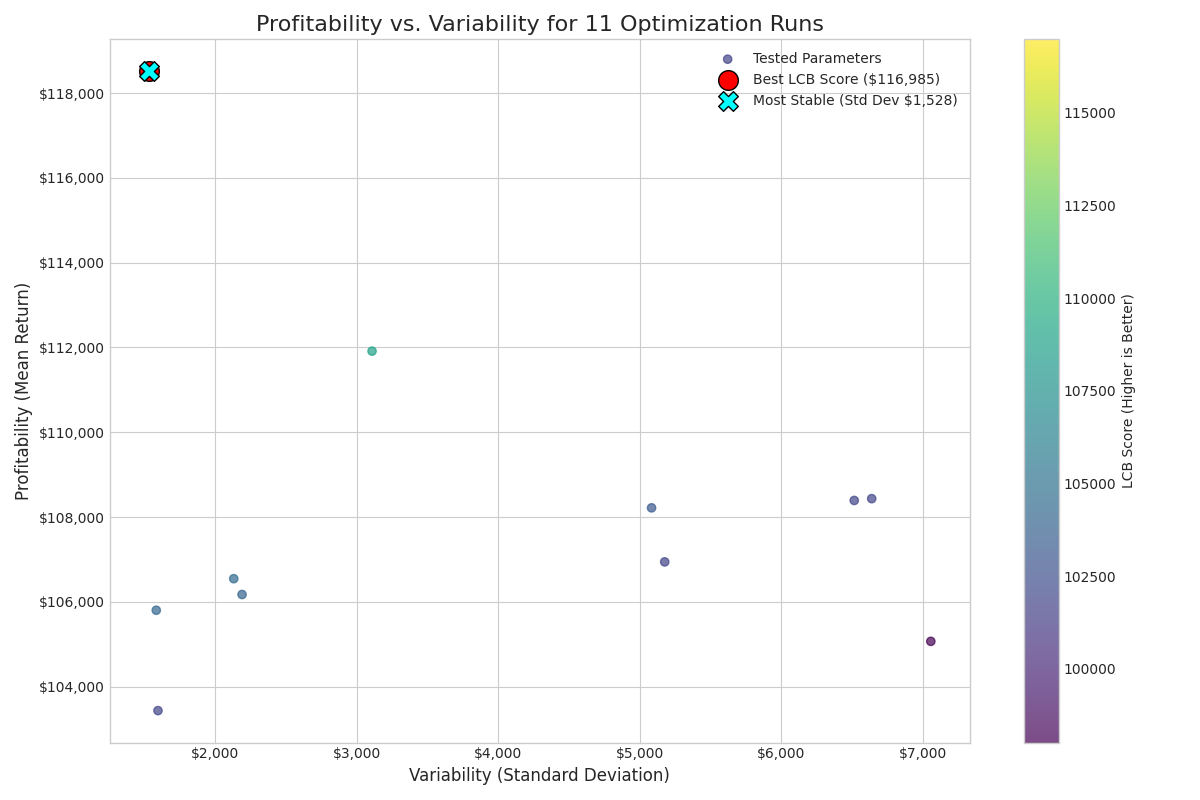
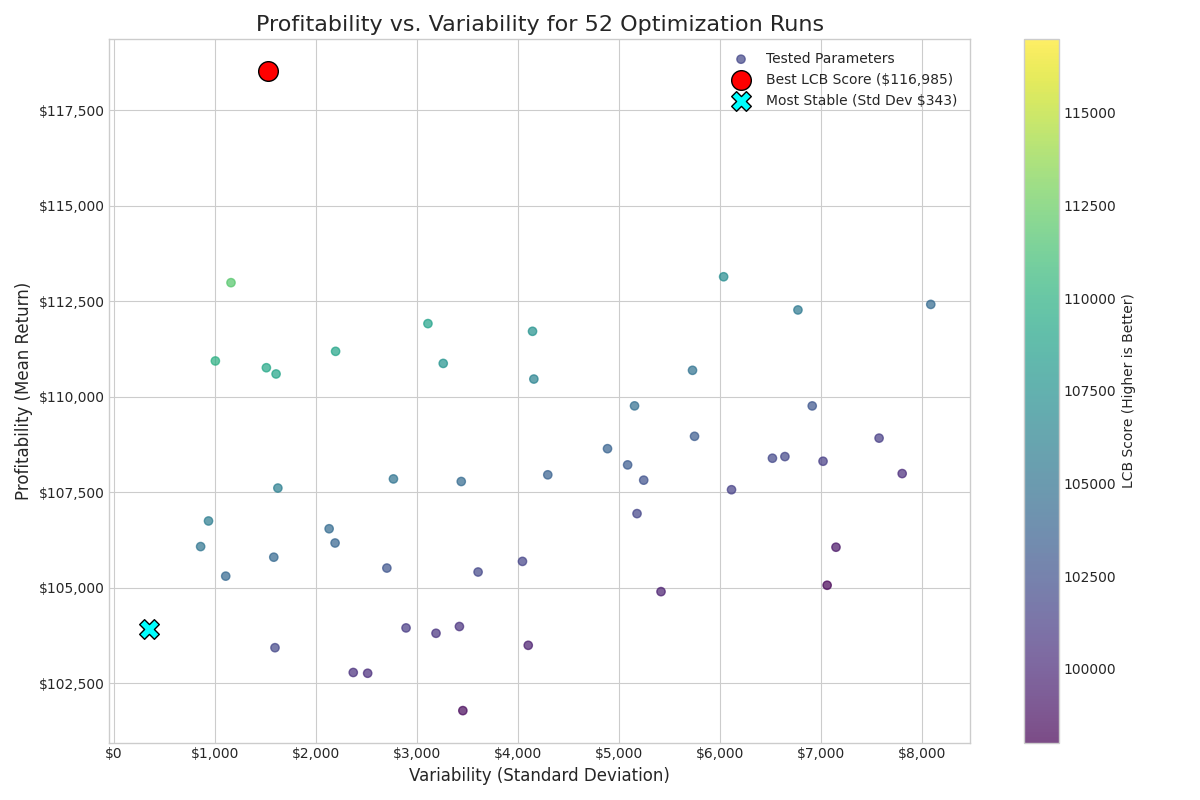
s

diff --git a/adaptive_anomaly_bot/analyze_optimization.py b/adaptive_anomaly_bot/analyze_optimization.py
@@ -55,7 +55,7 @@ def analyze_and_plot(log_filename="robust_optimization_log_TLT_LCB.csv"):
         ax.legend()
         fig.tight_layout()
 
-        plot_filename = 'optimization_analysis_plot_GLD.png'
+        plot_filename = 'optimization_analysis_plot_TLT.png'
         plt.savefig(plot_filename)
         print(f"\nPlot saved successfully as '{plot_filename}'")
         
@@ -70,4 +70,4 @@ def analyze_and_plot(log_filename="robust_optimization_log_TLT_LCB.csv"):
 
 if __name__ == '__main__':
     # You can change the filename here if you are analyzing a different asset log
-    analyze_and_plot(log_filename="robust_optimization_log_GLD_FINAL.csv")
+    analyze_and_plot(log_filename="robust_optimization_log_TLT_FINAL.csv")

diff --git a/adaptive_anomaly_bot/run_robust_optimization_FINAL.py b/adaptive_anomaly_bot/run_robust_optimization_FINAL.py
@@ -291,7 +291,7 @@ SEARCH_SPACE = [
     Real(low=0.0, high=0.1, name='entropy_coef_sideways')
 ]
 OPTIMIZATION_SEEDS = [42, 43, 44]
-ASSET_TICKER = "GLD" # <--- CHANGE THIS FOR EACH ASSET
+ASSET_TICKER = "TLT" # <--- CHANGE THIS FOR EACH ASSET
 LOG_FILE_BASE = 'robust_optimization_log'
 N_CALLS = 50
 
